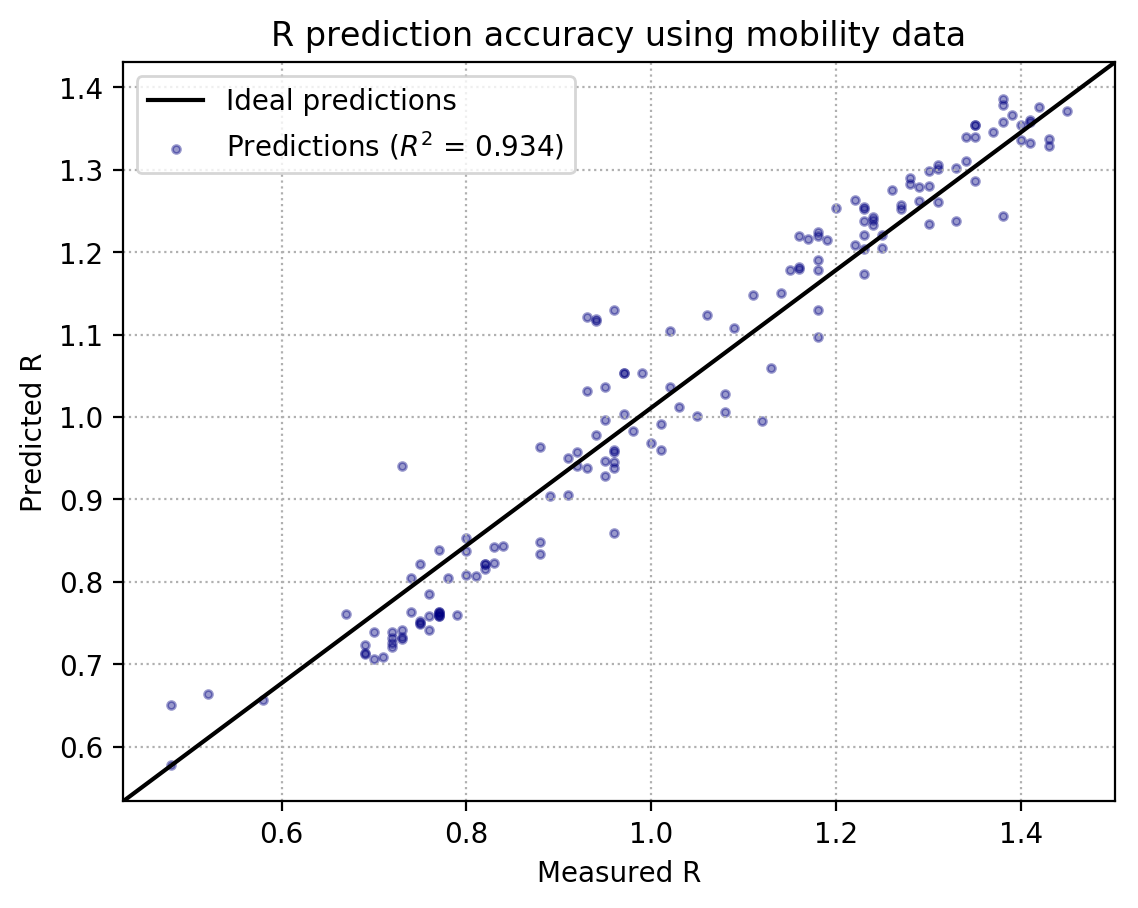
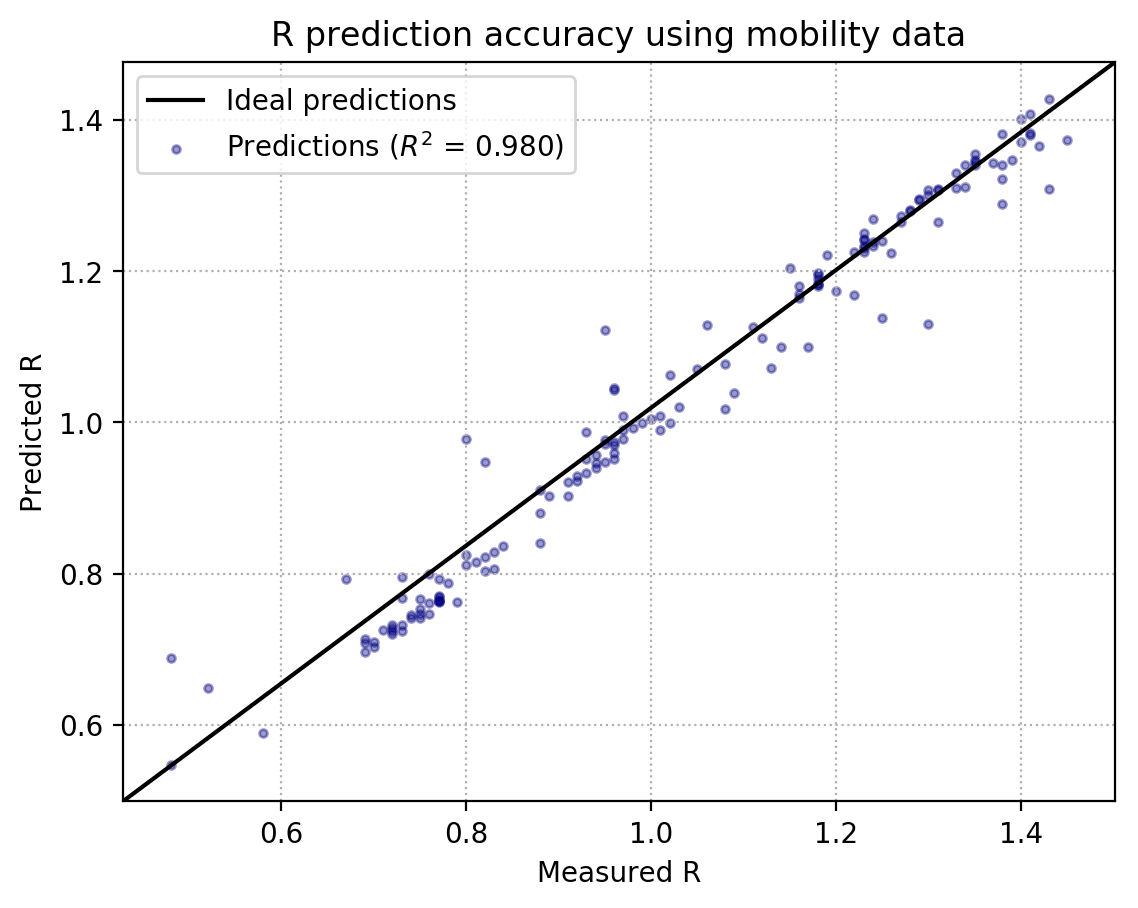
Added plot of R predictions based on mobility, reliability seems high. Also changed smoothing of mobility data to a 7-day window

diff --git a/model_coronavirus_supression.py b/model_coronavirus_supression.py
@@ -115,7 +115,7 @@ def load_government_response_data():
 
 	return df_response
 
-def load_mobility_data(smooth = False):
+def load_mobility_data(smooth = False, smoothsize = 7):
 	"""
 	Load Apple and Google mobility data. Downloadable from:
 
@@ -187,12 +187,11 @@ def load_mobility_data(smooth = False):
 
 	### smooth data if desired
 	if smooth:
-		windowsize = 3
 		for col in df_google_mob.columns:
-			df_google_mob[col + '_smooth'] = df_google_mob[col].rolling(windowsize).mean()
+			df_google_mob[col + '_smooth'] = df_google_mob[col].rolling(smoothsize).mean()
 
 		for col in df_apple_mob.columns:
-			df_apple_mob[col + '_smooth'] = df_apple_mob[col].rolling(windowsize).mean()
+			df_apple_mob[col + '_smooth'] = df_apple_mob[col].rolling(smoothsize).mean()
 
 	### interpolate the gap in the Apple data
 	#resample to once a day
@@ -765,12 +764,14 @@ def estimate_recent_R():
 	df_google_mob, df_apple_mob = load_mobility_data(smooth = True)
 	df_sewage = load_sewage_data(smooth = True, shiftdates = True)
 
+	print(df_google_mob.tail())
+	print(df_apple_mob.tail())
 
 	#determine error of R
 	df_R['Rt_abs_error'] = ((df_R['Rt_low'] - df_R['Rt_avg']).abs() + (df_R['Rt_up'] - df_R['Rt_avg']).abs())/2
 
 	#merge datasets
-	df_mob_R = df_google_mob.merge(df_R[['Rt_avg', 'Rt_abs_error']], right_index = True, left_index = True)
+	df_mob_R = df_google_mob.merge(df_R, right_index = True, left_index = True)
 	df_mob_R = df_mob_R.merge(df_apple_mob, right_index = True, left_index = True)
 	df_mob_R = df_mob_R.merge(df_sewage[['RNA_per_ml_smooth']], right_index = True, left_index = True)
 
@@ -844,10 +845,10 @@ def estimate_recent_R():
 			'transit_smooth'
 		]
 		#get the multiple parameters into a single array
-		X_train = np.zeros((len(df_train), len(best_correlating_metrics)))
-		for i in range(len(best_correlating_metrics)):
-			X_train[:,i] = np.array(df_train[best_correlating_metrics[i]])
-
+		# X_train = np.zeros((len(df_train), len(best_correlating_metrics)))
+		# for i in range(len(best_correlating_metrics)):
+		# 	X_train[:,i] = np.array(df_train[best_correlating_metrics[i]])
+		X_train = dataframes_to_NDarray(df_train, best_correlating_metrics)
 		Y_train = np.array(df_train['Rt_avg'])
 
 		weight_train = 1/np.array(df_train['Rt_abs_error'])
@@ -857,8 +858,8 @@ def estimate_recent_R():
 		# clf = Ridge(alpha = 1.)
 		#apply adaboost regression, see here for more info:
 		#https://scikit-learn.org/stable/modules/generated/sklearn.ensemble.AdaBoostRegressor.html#sklearn.ensemble.AdaBoostRegressor
-		clf = AdaBoostRegressor()
-		# clf = RandomForestRegressor()
+		# clf = AdaBoostRegressor()
+		clf = RandomForestRegressor()
 		clf.fit(X_train, Y_train, sample_weight = weight_train)
 		# clf.fit(X, Y)
 
@@ -889,48 +890,38 @@ def estimate_recent_R():
 		plt.savefig(f'{plotloc}Mobility_R_prediction_accuracy.png', dpi = 200, bbox_inches = 'tight')
 		plt.close()
 
+
 		### now make and plot predictions
+		X_pred = dataframes_to_NDarray(df_pred, best_correlating_metrics)
 
-		#plot data
-		# axs[i].scatter(df_mob_R[key], df_mob_R['Rt_avg'], color = 'maroon', alpha = 0.6, s = 8, label = key_names[k])
+		Y_pred = clf.predict(X_pred)
 
 
-		### fit a linear model
-		'''
-		popt, perr, r_squared = fit_model(three_variables_linear_model,
-							xdata,
-							,
-							sigma = np.array(df_mob_R['Rt_abs_error']))
+		fig, ax = plt.subplots()
 
-		print(r_squared)
-		'''
+		ax.plot(df_pred.index, df_pred.Rt_avg, label = 'Ground truth', color = 'navy')
+		#indicate error margins on ground truth
+		ax.fill_between(df_pred.index, df_pred['Rt_low'], df_pred['Rt_up'], alpha = 0.4, color = 'navy')
 
-		'''
-		#plot the model
-		xpoints = np.linspace(np.min(df_mob_R[key]), np.max(df_mob_R[key]), num = 500)
-		axs[i].plot(xpoints, linear_model(xpoints, *popt), label = r'Fit ($R^2 = $' + f'{r_squared:0.03f})', color = 'black')
+		ax.plot(df_pred.index, Y_pred, label = f'Prediction ($R^2$: {r_squared:0.03f})', color = 'maroon')
 
-		axs[i].set_title(f'{key_names[k]}')
+		ax.grid(linestyle = ':')
+		ax.legend(loc = 'best')
 
-		# axs[i].set_xlabel('Mobility change relative to baseline [%]')
-		# axs[i].set_ylabel(r'$R$')
+		ax.set_ylabel('$R$')
+		ax.set_title('$R$ prediction')
 
-		axs[i].grid(linestyle = ':')
+		#fix date ticks
+		ax.set_xticks(pd.date_range(np.min(df_pred.index), np.max(df_pred.index + pd.Timedelta(f'7 day')), freq = '2W'))
+		fig.autofmt_xdate()
+		myfmt = mdates.DateFormatter('%d-%m-%Y')
+		ax.xaxis.set_major_formatter(myfmt)
 
-		if key == 'parks':
-			axs[i].set_xlim(right = 100)
-
-		axs[i].legend(loc = 'best')
-
-		#frame for overall x and y labels
-		fig.add_subplot(111, frameon = False)
-		plt.tick_params(labelcolor='none', top=False, bottom=False, left=False, right=False)
-		plt.xlabel('Mobility change from baseline [%]')
-		plt.ylabel('$R$')
-
-		plt.savefig(f'{plotloc}Mobility_R_correlation.png', dpi = 200, bbox_inches = 'tight')
+		plt.savefig(f'{plotloc}Mobility_R_prediction.png', dpi = 200, bbox_inches = 'tight')
 		plt.close()
-		'''
+
+
+
 
 def estimate_recent_prevalence():
 	"""
@@ -1105,7 +1096,7 @@ def main():
 
 	# plot_prevalence_R()
 
-	# plot_mobility()
+	plot_mobility()
 
 	# plot_daily_results()
 
@@ -1128,3 +1119,4 @@ def main():
 
 if __name__ == '__main__':
 	main()
+#

diff --git a/README.md b/README.md
@@ -2,7 +2,7 @@
 
 ### TODO:
 - Use more mobility data to co-predict R
-- Correct the data of positive test results per day for the number of tests conducted.
+- Auto download Apple/Google data
 
 ### Data sources
 
